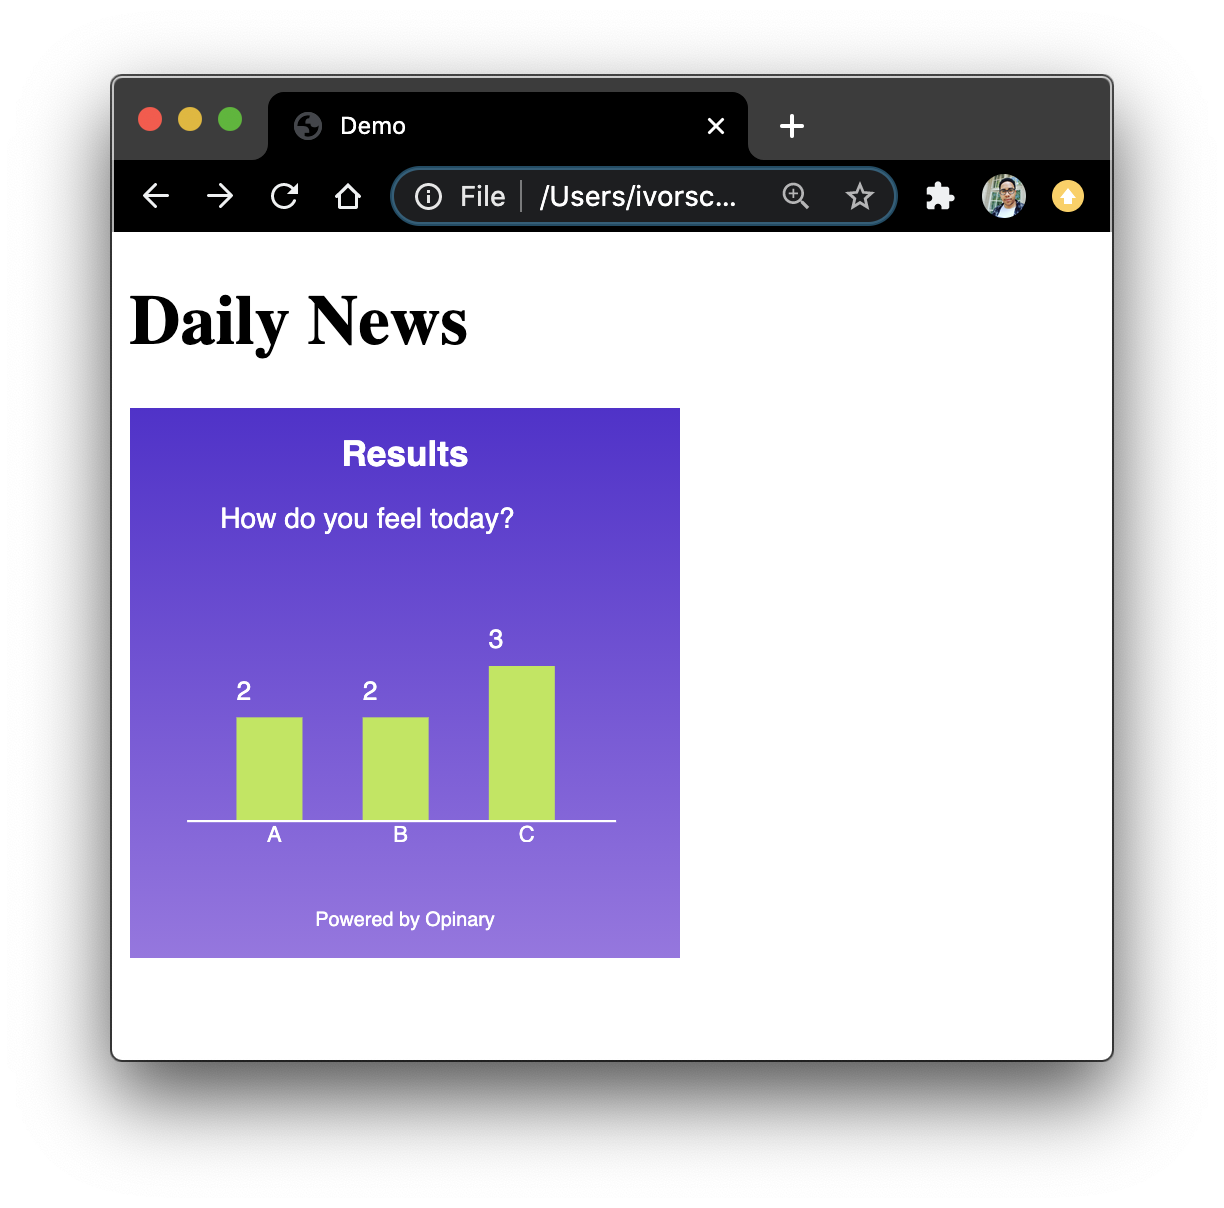
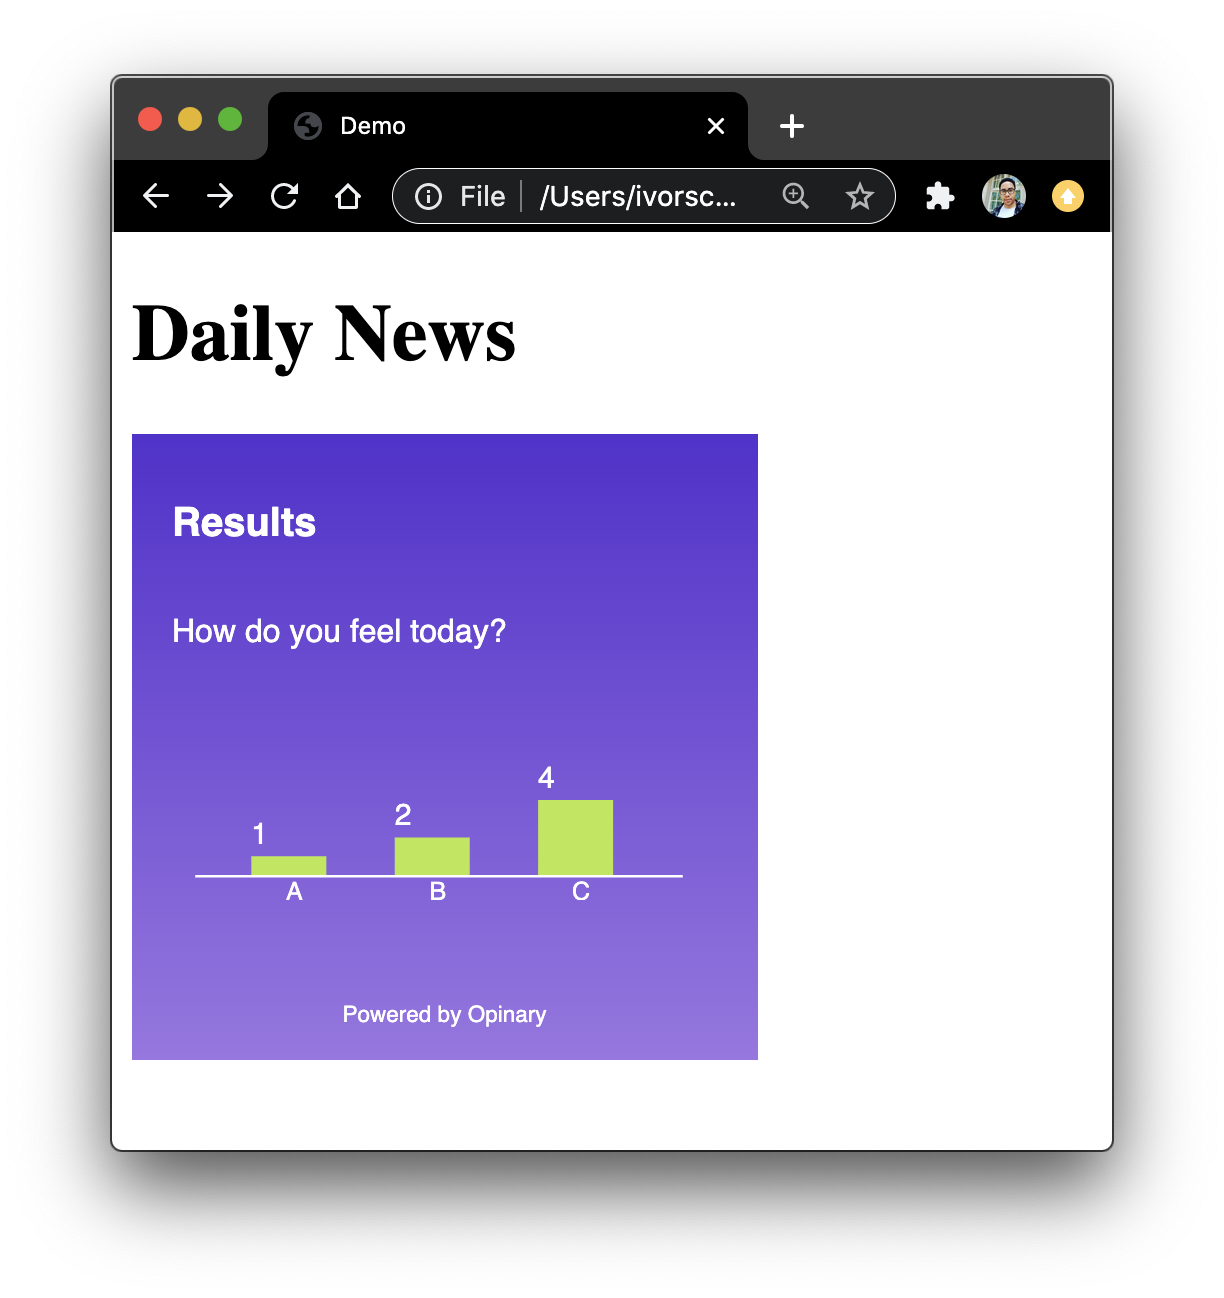
docs: update preview images

diff --git a/components/src/Poll/Chart.js b/components/src/Poll/Chart.js
@@ -1,7 +1,7 @@
 import * as d3 from "d3";
 
 export const drawChart = (data) => {
-  const h = 120;
+  const h = 100;
   const w = 200;
   const margin = { top: 0, right: 0, bottom: 10, left: 5 };
   const height = h - margin.top - margin.bottom;
@@ -54,7 +54,7 @@ export const drawChart = (data) => {
     .append("text")
     .attr("class", "text")
     .attr("x", (d) => xScale(d.option))
-    .attr("y", (d) => 100 - yScale(d.value) + 5)
+    .attr("y", (d) => 100 - yScale(d.value) - 15)
     .attr("font-family", "sans-serif")
     .attr("font-size", "12px")
     .attr("fill", "white")

diff --git a/demo/poll-chart.js b/demo/poll-chart.js
@@ -1,5 +1,5 @@
 const drawChart = (data) => {
-  const h = 120;
+  const h = 100;
   const w = 200;
   const margin = { top: 0, right: 0, bottom: 10, left: 5 };
   const height = h - margin.top - margin.bottom;
@@ -52,7 +52,7 @@ const drawChart = (data) => {
     .append("text")
     .attr("class", "text")
     .attr("x", (d) => xScale(d.option))
-    .attr("y", (d) => 100 - yScale(d.value) + 5)
+    .attr("y", (d) => 100 - yScale(d.value) - 15)
     .attr("font-family", "sans-serif")
     .attr("font-size", "12px")
     .attr("fill", "white")
